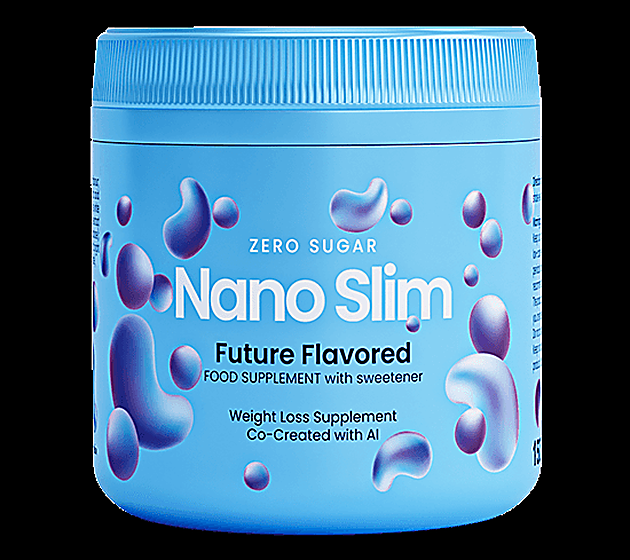
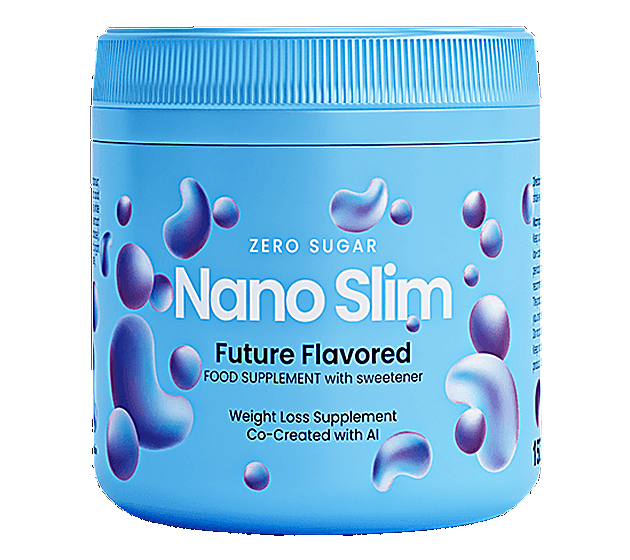
Фото: белый фон вместо чёрного — 763 кадра заливкой, 223 перерисовкой с автопроверкой текста

diff --git a/index.html b/index.html
@@ -52,7 +52,7 @@
 <div class="wrap">
   <header><img src="favicon.png" alt=""><h1>Κατάστημα του παρασκευαστή</h1></header>
   <div class="intro"><p>Απευθείας πώληση προϊόντων για την καθημερινή ευεξία.</p></div>
-  <div class="grid"><a class="card" href="/cp/abslim/"><div class="ph"><img src="img/lbhd-15182.png" alt="ABSlim" loading="lazy"></div><div class="name">ABSlim</div><div class="price">39 €</div><div class="btn">ΠΑΡΑΓΓΕΙΛΤΕ ΤΟ ΑΥΘΕΝΤΙΚΟ</div></a><a class="card" href="/dc/alpha-beast-31496/"><div class="ph"><img src="img/dccard-31496.png" alt="Alpha Beast" loading="lazy"></div><div class="name">Alpha Beast</div><div class="price">29 €</div><div class="btn">ΠΑΡΑΓΓΕΙΛΤΕ ΤΟ ΑΥΘΕΝΤΙΚΟ</div></a><a class="card" href="/rp/alvarix/"><div class="ph"><img src="img/rphd-1048.png" alt="Alvarix" loading="lazy"></div><div class="name">Alvarix</div><div class="price">39 €</div><div class="btn">ΠΑΡΑΓΓΕΙΛΤΕ ΤΟ ΑΥΘΕΝΤΙΚΟ</div></a><a class="card" href="/m1/artizynt/"><div class="ph"><img src="img/tlhd-18531.png" alt="ArtiZynt" loading="lazy"></div><div class="name">ArtiZynt</div><div class="price">39 €</div><div class="btn">ΠΑΡΑΓΓΕΙΛΤΕ ΤΟ ΑΥΘΕΝΤΙΚΟ</div></a><a class="card" href="/tl/artizynt/"><div class="ph"><img src="img/tlhd-18531.png" alt="ArtiZynt (Gel)" loading="lazy"></div><div class="name">ArtiZynt (Gel)</div><div class="price">39 €</div><div class="btn">ΠΑΡΑΓΓΕΙΛΤΕ ΤΟ ΑΥΘΕΝΤΙΚΟ</div></a><a class="card" href="/lr/artizynt/"><div class="ph"><img src="img/lrhd-5786.png" alt="ArtiZynt capsules" loading="lazy"></div><div class="name">ArtiZynt capsules</div><div class="price">29 €</div><div class="btn">ΠΑΡΑΓΓΕΙΛΤΕ ΤΟ ΑΥΘΕΝΤΙΚΟ</div></a><a class="card" href="/dc/artizynt/"><div class="ph"><img src="img/dccard-32275.jpeg" alt="ArtiZynt capsules lp" loading="lazy"></div><div class="name">ArtiZynt capsules lp</div><div class="price">29 €</div><div class="btn">ΠΑΡΑΓΓΕΙΛΤΕ ΤΟ ΑΥΘΕΝΤΙΚΟ</div></a><a class="card" href="/m1/artizynt-gel-6175/"><div class="ph"><img src="img/dc-28394.jpg" alt="ArtiZynt Gel" loading="lazy"></div><div class="name">ArtiZynt Gel</div><div class="price">39 €</div><div class="btn">ΠΑΡΑΓΓΕΙΛΤΕ ΤΟ ΑΥΘΕΝΤΙΚΟ</div></a><a class="card" href="/m1/artizynt-gel/"><div class="ph"><img src="img/dc-28394.jpg" alt="ArtiZynt Gel Full price" loading="lazy"></div><div class="name">ArtiZynt Gel Full price</div><div class="price">49 €</div><div class="btn">ΠΑΡΑΓΓΕΙΛΤΕ ΤΟ ΑΥΘΕΝΤΙΚΟ</div></a><a class="card" href="/m1/artizynt-gel-6176/"><div class="ph"><img src="img/dc-28394.jpg" alt="ArtiZynt Gel Low price" loading="lazy"></div><div class="name">ArtiZynt Gel Low price</div><div class="price">29 €</div><div class="btn">ΠΑΡΑΓΓΕΙΛΤΕ ΤΟ ΑΥΘΕΝΤΙΚΟ</div></a><a class="card" href="/m1/artizynt-6417/"><div class="ph"><img src="img/trafficlight-artizynt.jpg" alt="ArtiZynt Low price" loading="lazy"></div><div class="name">ArtiZynt Low price</div><div class="price">29 €</div><div class="btn">ΠΑΡΑΓΓΕΙΛΤΕ ΤΟ ΑΥΘΕΝΤΙΚΟ</div></a><a class="card" href="/cp/aurivit/"><div class="ph"><img src="img/m1-aurivit.png" alt="Aurivit" loading="lazy"></div><div class="name">Aurivit</div><div class="price">39 €</div><div class="btn">ΠΑΡΑΓΓΕΙΛΤΕ ΤΟ ΑΥΘΕΝΤΙΚΟ</div></a><a class="card" href="/lb/balancio/"><div class="ph"><img src="img/lbhd-16110.png" alt="Balancio" loading="lazy"></div><div class="name">Balancio</div><div class="price">29 €</div><div class="btn">ΠΑΡΑΓΓΕΙΛΤΕ ΤΟ ΑΥΘΕΝΤΙΚΟ</div></a><a class="card" href="/rp/beauty-age/"><div class="ph"><img src="img/rphd-799.png" alt="Beauty Age" loading="lazy"></div><div class="name">Beauty Age</div><div class="price">39 €</div><div class="btn">ΠΑΡΑΓΓΕΙΛΤΕ ΤΟ ΑΥΘΕΝΤΙΚΟ</div></a><a class="card" href="/cp/cardiform/"><div class="ph"><img src="img/everad-cardiform.png" alt="Cardiform" loading="lazy"></div><div class="name">Cardiform</div><div class="price">39 €</div><div class="btn">ΠΑΡΑΓΓΕΙΛΤΕ ΤΟ ΑΥΘΕΝΤΙΚΟ</div></a><a class="card" href="/dc/cardiotens-plus/"><div class="ph"><img src="img/cat-met-5366.jpg" alt="Cardiotens Plus" loading="lazy"></div><div class="name">Cardiotens Plus</div><div class="price">39 €</div><div class="btn">ΠΑΡΑΓΓΕΙΛΤΕ ΤΟ ΑΥΘΕΝΤΙΚΟ</div></a><a class="card" href="/ac/cardiotensive/"><div class="ph"><img src="img/achd-37067.png" alt="Cardiotensive" loading="lazy"></div><div class="name">Cardiotensive</div><div class="price">39 €</div><div class="btn">ΠΑΡΑΓΓΕΙΛΤΕ ΤΟ ΑΥΘΕΝΤΙΚΟ</div></a><a class="card" href="/rp/cleorix/"><div class="ph"><img src="img/rphd-1238.png" alt="Cleorix" loading="lazy"></div><div class="name">Cleorix</div><div class="price">39 €</div><div class="btn">ΠΑΡΑΓΓΕΙΛΤΕ ΤΟ ΑΥΘΕΝΤΙΚΟ</div></a><a class="card" href="/cp/clora-balance/"><div class="ph"><img src="img/cp-18363.jpg" alt="Clora Balance" loading="lazy"></div><div class="name">Clora Balance</div><div class="price">39 €</div><div class="btn">ΠΑΡΑΓΓΕΙΛΤΕ ΤΟ ΑΥΘΕΝΤΙΚΟ</div></a><a class="card" href="/lb/congelum/"><div class="ph"><img src="img/lbhd-14759.png" alt="Congelum" loading="lazy"></div><div class="name">Congelum</div><div class="price">39 €</div><div class="btn">ΠΑΡΑΓΓΕΙΛΤΕ ΤΟ ΑΥΘΕΝΤΙΚΟ</div></a><a class="card" href="/cp/cystiolla/"><div class="ph"><img src="img/achd-39166.png" alt="Cystiolla" loading="lazy"></div><div class="name">Cystiolla</div><div class="price">39 €</div><div class="btn">ΠΑΡΑΓΓΕΙΛΤΕ ΤΟ ΑΥΘΕΝΤΙΚΟ</div></a><a class="card" href="/cp/cystolax/"><div class="ph"><img src="img/cpagetti-cystolax.png" alt="Cystolax" loading="lazy"></div><div class="name">Cystolax</div><div class="price">39 €</div><div class="btn">ΠΑΡΑΓΓΕΙΛΤΕ ΤΟ ΑΥΘΕΝΤΙΚΟ</div></a><a class="card" href="/cp/delislim/"><div class="ph"><img src="img/cp-7795.jpg" alt="Delislim" loading="lazy"></div><div class="name">Delislim</div><div class="price">39 €</div><div class="btn">ΠΑΡΑΓΓΕΙΛΤΕ ΤΟ ΑΥΘΕΝΤΙΚΟ</div></a><a class="card" href="/cp/demyxil/"><div class="ph"><img src="img/everad-demyxil.png" alt="Demyxil" loading="lazy"></div><div class="name">Demyxil</div><div class="price">39 €</div><div class="btn">ΠΑΡΑΓΓΕΙΛΤΕ ΤΟ ΑΥΘΕΝΤΙΚΟ</div></a><a class="card" href="/lb/diabexol-pro/"><div class="ph"><img src="img/lbhd-19453.png" alt="Diabexol Pro" loading="lazy"></div><div class="name">Diabexol Pro</div><div class="price">29 €</div><div class="btn">ΠΑΡΑΓΓΕΙΛΤΕ ΤΟ ΑΥΘΕΝΤΙΚΟ</div></a><a class="card" href="/cp/diaflex-forte/"><div class="ph"><img src="img/cat-kma-10567.jpg" alt="DiaFlex Forte" loading="lazy"></div><div class="name">DiaFlex Forte</div><div class="price">39 €</div><div class="btn">ΠΑΡΑΓΓΕΙΛΤΕ ΤΟ ΑΥΘΕΝΤΙΚΟ</div></a><a class="card" href="/m1/diaflex-forte-6825/"><div class="ph"><img src="img/land-m1-6825.png" alt="DiaFlex Forte Neuropathy" loading="lazy"></div><div class="name">DiaFlex Forte Neuropathy</div><div class="price">39 €</div><div class="btn">ΠΑΡΑΓΓΕΙΛΤΕ ΤΟ ΑΥΘΕΝΤΙΚΟ</div></a><a class="card" href="/cp/diaform/"><div class="ph"><img src="img/ev-cab-diaform.png" alt="Diaform" loading="lazy"></div><div class="name">Diaform</div><div class="price">39 €</div><div class="btn">ΠΑΡΑΓΓΕΙΛΤΕ ΤΟ ΑΥΘΕΝΤΙΚΟ</div></a><a class="card" href="/ev/diaform/"><div class="ph"><img src="img/hd-eve-900.png" alt="Diaform+" loading="lazy"></div><div class="name">Diaform+</div><div class="price">39 €</div><div class="btn">ΠΑΡΑΓΓΕΙΛΤΕ ΤΟ ΑΥΘΕΝΤΙΚΟ</div></a><a class="card" href="/mc/diaformrx/"><div class="ph"><img src="img/mchd-5376.png" alt="DiaformRX" loading="lazy"></div><div class="name">DiaformRX</div><div class="price">29 €</div><div class="btn">ΠΑΡΑΓΓΕΙΛΤΕ ΤΟ ΑΥΘΕΝΤΙΚΟ</div></a><a class="card" href="/lb/dietter/"><div class="ph"><img src="img/lbhd-17707.png" alt="Dietter" loading="lazy"></div><div class="name">Dietter</div><div class="price">29 €</div><div class="btn">ΠΑΡΑΓΓΕΙΛΤΕ ΤΟ ΑΥΘΕΝΤΙΚΟ</div></a><a class="card" href="/lb/easyloss/"><div class="ph"><img src="img/lbhd-11356.png" alt="Easyloss" loading="lazy"></div><div class="name">Easyloss</div><div class="price">39 €</div><div class="btn">ΠΑΡΑΓΓΕΙΛΤΕ ΤΟ ΑΥΘΕΝΤΙΚΟ</div></a><a class="card" href="/cp/ekzodermin/"><div class="ph"><img src="img/cpagetti-ekzodermin.png" alt="Ekzodermin" loading="lazy"></div><div class="name">Ekzodermin</div><div class="price">39 €</div><div class="btn">ΠΑΡΑΓΓΕΙΛΤΕ ΤΟ ΑΥΘΕΝΤΙΚΟ</div></a><a class="card" href="/cp/elesse-cream/"><div class="ph"><img src="img/meta-elesse-cream.png" alt="Elesse Cream" loading="lazy"></div><div class="name">Elesse Cream</div><div class="price">49 €</div><div class="btn">ΠΑΡΑΓΓΕΙΛΤΕ ΤΟ ΑΥΘΕΝΤΙΚΟ</div></a><a class="card" href="/cp/eudalie/"><div class="ph"><img src="img/leadbit-eudalie.png" alt="Eudalie" loading="lazy"></div><div class="name">Eudalie</div><div class="price">39 €</div><div class="btn">ΠΑΡΑΓΓΕΙΛΤΕ ΤΟ ΑΥΘΕΝΤΙΚΟ</div></a><a class="card" href="/cp/exurol/"><div class="ph"><img src="img/drcash-exurol.png" alt="EXUROL" loading="lazy"></div><div class="name">EXUROL</div><div class="price">39 €</div><div class="btn">ΠΑΡΑΓΓΕΙΛΤΕ ΤΟ ΑΥΘΕΝΤΙΚΟ</div></a><a class="card" href="/m1/femixal/"><div class="ph"><img src="img/ev-cab-femixal.png" alt="Femixal" loading="lazy"></div><div class="name">Femixal</div><div class="price">39 €</div><div class="btn">ΠΑΡΑΓΓΕΙΛΤΕ ΤΟ ΑΥΘΕΝΤΙΚΟ</div></a><a class="card" href="/kma/flexosamine/"><div class="ph"><img src="img/kmahd-8947.jpg" alt="Flexosamine" loading="lazy"></div><div class="name">Flexosamine</div><div class="price">29 €</div><div class="btn">ΠΑΡΑΓΓΕΙΛΤΕ ΤΟ ΑΥΘΕΝΤΙΚΟ</div></a><a class="card" href="/dc/flexosamine-gel/"><div class="ph"><img src="img/drcash-flexosamine-gel.png" alt="Flexosamine gel" loading="lazy"></div><div class="name">Flexosamine gel</div><div class="price">39 €</div><div class="btn">ΠΑΡΑΓΓΕΙΛΤΕ ΤΟ ΑΥΘΕΝΤΙΚΟ</div></a><a class="card" href="/m1/flexosamine-6174/"><div class="ph"><img src="img/fix-kma-flexosamine-89.jpg" alt="Flexosamine Low price" loading="lazy"></div><div class="name">Flexosamine Low price</div><div class="price">29 €</div><div class="btn">ΠΑΡΑΓΓΕΙΛΤΕ ΤΟ ΑΥΘΕΝΤΙΚΟ</div></a><a class="card" href="/ac/foot-trooper/"><div class="ph"><img src="img/achd-35397.png" alt="Foot Trooper" loading="lazy"></div><div class="name">Foot Trooper</div><div class="price">49 €</div><div class="btn">ΠΑΡΑΓΓΕΙΛΤΕ ΤΟ ΑΥΘΕΝΤΙΚΟ</div></a><a class="card" href="/ac/fortuflex/"><div class="ph"><img src="img/achd-38782.png" alt="Fortuflex" loading="lazy"></div><div class="name">Fortuflex</div><div class="price">39 €</div><div class="btn">ΠΑΡΑΓΓΕΙΛΤΕ ΤΟ ΑΥΘΕΝΤΙΚΟ</div></a><a class="card" href="/dc/fortuflex-cream/"><div class="ph"><img src="img/dccard-31005.png" alt="Fortuflex cream" loading="lazy"></div><div class="name">Fortuflex cream</div><div class="price">39 €</div><div class="btn">ΠΑΡΑΓΓΕΙΛΤΕ ΤΟ ΑΥΘΕΝΤΙΚΟ</div></a><a class="card" href="/tl/fortunella/"><div class="ph"><img src="img/tlhd-5118.png" alt="Fortunella" loading="lazy"></div><div class="name">Fortunella</div><div class="price">39 €</div><div class="btn">ΠΑΡΑΓΓΕΙΛΤΕ ΤΟ ΑΥΘΕΝΤΙΚΟ</div></a><a class="card" href="/ac/fungokiller/"><div class="ph"><img src="img/achd-38816.png" alt="Fungokiller" loading="lazy"></div><div class="name">Fungokiller</div><div class="price">39 €</div><div class="btn">ΠΑΡΑΓΓΕΙΛΤΕ ΤΟ ΑΥΘΕΝΤΙΚΟ</div></a><a class="card" href="/mc/gluconix/"><div class="ph"><img src="img/mchd-5455.png" alt="Gluconix" loading="lazy"></div><div class="name">Gluconix</div><div class="price">39 €</div><div class="btn">ΠΑΡΑΓΓΕΙΛΤΕ ΤΟ ΑΥΘΕΝΤΙΚΟ</div></a><a class="card" href="/dc/glucosol/"><div class="ph"><img src="img/dccard-32637.jpg" alt="Glucosol" loading="lazy"></div><div class="name">Glucosol</div><div class="price">29 €</div><div class="btn">ΠΑΡΑΓΓΕΙΛΤΕ ΤΟ ΑΥΘΕΝΤΙΚΟ</div></a><a class="card" href="/rp/guavital/"><div class="ph"><img src="img/hd-roc-791.png" alt="Guavital Caps" loading="lazy"></div><div class="name">Guavital Caps</div><div class="price">39 €</div><div class="btn">ΠΑΡΑΓΓΕΙΛΤΕ ΤΟ ΑΥΘΕΝΤΙΚΟ</div></a></div>
+  <div class="grid"><a class="card" href="/cp/abslim/"><div class="ph"><img src="img/lbhd-15182.png" alt="ABSlim" loading="lazy"></div><div class="name">ABSlim</div><div class="price">39 €</div><div class="btn">ΠΑΡΑΓΓΕΙΛΤΕ ΤΟ ΑΥΘΕΝΤΙΚΟ</div></a><a class="card" href="/dc/alpha-beast-31496/"><div class="ph"><img src="img/dccard-31496.png" alt="Alpha Beast" loading="lazy"></div><div class="name">Alpha Beast</div><div class="price">29 €</div><div class="btn">ΠΑΡΑΓΓΕΙΛΤΕ ΤΟ ΑΥΘΕΝΤΙΚΟ</div></a><a class="card" href="/rp/alvarix/"><div class="ph"><img src="img/rphd-1048.png" alt="Alvarix" loading="lazy"></div><div class="name">Alvarix</div><div class="price">39 €</div><div class="btn">ΠΑΡΑΓΓΕΙΛΤΕ ΤΟ ΑΥΘΕΝΤΙΚΟ</div></a><a class="card" href="/m1/artizynt/"><div class="ph"><img src="img/tlhd-18531.png" alt="ArtiZynt" loading="lazy"></div><div class="name">ArtiZynt</div><div class="price">39 €</div><div class="btn">ΠΑΡΑΓΓΕΙΛΤΕ ΤΟ ΑΥΘΕΝΤΙΚΟ</div></a><a class="card" href="/tl/artizynt/"><div class="ph"><img src="img/tlhd-18531.png" alt="ArtiZynt (Gel)" loading="lazy"></div><div class="name">ArtiZynt (Gel)</div><div class="price">39 €</div><div class="btn">ΠΑΡΑΓΓΕΙΛΤΕ ΤΟ ΑΥΘΕΝΤΙΚΟ</div></a><a class="card" href="/lr/artizynt/"><div class="ph"><img src="img/lrhd-5786.png" alt="ArtiZynt capsules" loading="lazy"></div><div class="name">ArtiZynt capsules</div><div class="price">29 €</div><div class="btn">ΠΑΡΑΓΓΕΙΛΤΕ ΤΟ ΑΥΘΕΝΤΙΚΟ</div></a><a class="card" href="/dc/artizynt/"><div class="ph"><img src="img/dccard-32275.jpeg" alt="ArtiZynt capsules lp" loading="lazy"></div><div class="name">ArtiZynt capsules lp</div><div class="price">29 €</div><div class="btn">ΠΑΡΑΓΓΕΙΛΤΕ ΤΟ ΑΥΘΕΝΤΙΚΟ</div></a><a class="card" href="/m1/artizynt-gel-6175/"><div class="ph"><img src="img/dc-28394.jpg" alt="ArtiZynt Gel" loading="lazy"></div><div class="name">ArtiZynt Gel</div><div class="price">39 €</div><div class="btn">ΠΑΡΑΓΓΕΙΛΤΕ ΤΟ ΑΥΘΕΝΤΙΚΟ</div></a><a class="card" href="/m1/artizynt-gel/"><div class="ph"><img src="img/dc-28394.jpg" alt="ArtiZynt Gel Full price" loading="lazy"></div><div class="name">ArtiZynt Gel Full price</div><div class="price">49 €</div><div class="btn">ΠΑΡΑΓΓΕΙΛΤΕ ΤΟ ΑΥΘΕΝΤΙΚΟ</div></a><a class="card" href="/m1/artizynt-gel-6176/"><div class="ph"><img src="img/dc-28394.jpg" alt="ArtiZynt Gel Low price" loading="lazy"></div><div class="name">ArtiZynt Gel Low price</div><div class="price">29 €</div><div class="btn">ΠΑΡΑΓΓΕΙΛΤΕ ΤΟ ΑΥΘΕΝΤΙΚΟ</div></a><a class="card" href="/m1/artizynt-6417/"><div class="ph"><img src="img/trafficlight-artizynt.jpg" alt="ArtiZynt Low price" loading="lazy"></div><div class="name">ArtiZynt Low price</div><div class="price">29 €</div><div class="btn">ΠΑΡΑΓΓΕΙΛΤΕ ΤΟ ΑΥΘΕΝΤΙΚΟ</div></a><a class="card" href="/cp/aurivit/"><div class="ph"><img src="img/m1-aurivit.png" alt="Aurivit" loading="lazy"></div><div class="name">Aurivit</div><div class="price">39 €</div><div class="btn">ΠΑΡΑΓΓΕΙΛΤΕ ΤΟ ΑΥΘΕΝΤΙΚΟ</div></a><a class="card" href="/lb/balancio/"><div class="ph"><img src="img/lbhd-16110.png" alt="Balancio" loading="lazy"></div><div class="name">Balancio</div><div class="price">29 €</div><div class="btn">ΠΑΡΑΓΓΕΙΛΤΕ ΤΟ ΑΥΘΕΝΤΙΚΟ</div></a><a class="card" href="/rp/beauty-age/"><div class="ph"><img src="img/rphd-799.png" alt="Beauty Age" loading="lazy"></div><div class="name">Beauty Age</div><div class="price">39 €</div><div class="btn">ΠΑΡΑΓΓΕΙΛΤΕ ΤΟ ΑΥΘΕΝΤΙΚΟ</div></a><a class="card" href="/cp/cardiform/"><div class="ph"><img src="img/everad-cardiform.png" alt="Cardiform" loading="lazy"></div><div class="name">Cardiform</div><div class="price">39 €</div><div class="btn">ΠΑΡΑΓΓΕΙΛΤΕ ΤΟ ΑΥΘΕΝΤΙΚΟ</div></a><a class="card" href="/dc/cardiotens-plus/"><div class="ph"><img src="img/cat-met-5366.jpg" alt="Cardiotens Plus" loading="lazy"></div><div class="name">Cardiotens Plus</div><div class="price">39 €</div><div class="btn">ΠΑΡΑΓΓΕΙΛΤΕ ΤΟ ΑΥΘΕΝΤΙΚΟ</div></a><a class="card" href="/ac/cardiotensive/"><div class="ph"><img src="img/achd-37067.png" alt="Cardiotensive" loading="lazy"></div><div class="name">Cardiotensive</div><div class="price">39 €</div><div class="btn">ΠΑΡΑΓΓΕΙΛΤΕ ΤΟ ΑΥΘΕΝΤΙΚΟ</div></a><a class="card" href="/rp/cleorix/"><div class="ph"><img src="img/rphd-1238.png" alt="Cleorix" loading="lazy"></div><div class="name">Cleorix</div><div class="price">39 €</div><div class="btn">ΠΑΡΑΓΓΕΙΛΤΕ ΤΟ ΑΥΘΕΝΤΙΚΟ</div></a><a class="card" href="/cp/clora-balance/"><div class="ph"><img src="img/cp-18363.jpg" alt="Clora Balance" loading="lazy"></div><div class="name">Clora Balance</div><div class="price">39 €</div><div class="btn">ΠΑΡΑΓΓΕΙΛΤΕ ΤΟ ΑΥΘΕΝΤΙΚΟ</div></a><a class="card" href="/lb/congelum/"><div class="ph"><img src="img/lbhd-14759.png" alt="Congelum" loading="lazy"></div><div class="name">Congelum</div><div class="price">39 €</div><div class="btn">ΠΑΡΑΓΓΕΙΛΤΕ ΤΟ ΑΥΘΕΝΤΙΚΟ</div></a><a class="card" href="/cp/cystiolla/"><div class="ph"><img src="img/drcash-cystiolla.png" alt="Cystiolla" loading="lazy"></div><div class="name">Cystiolla</div><div class="price">39 €</div><div class="btn">ΠΑΡΑΓΓΕΙΛΤΕ ΤΟ ΑΥΘΕΝΤΙΚΟ</div></a><a class="card" href="/cp/cystolax/"><div class="ph"><img src="img/cpagetti-cystolax.png" alt="Cystolax" loading="lazy"></div><div class="name">Cystolax</div><div class="price">39 €</div><div class="btn">ΠΑΡΑΓΓΕΙΛΤΕ ΤΟ ΑΥΘΕΝΤΙΚΟ</div></a><a class="card" href="/cp/delislim/"><div class="ph"><img src="img/cp-7795.jpg" alt="Delislim" loading="lazy"></div><div class="name">Delislim</div><div class="price">39 €</div><div class="btn">ΠΑΡΑΓΓΕΙΛΤΕ ΤΟ ΑΥΘΕΝΤΙΚΟ</div></a><a class="card" href="/cp/demyxil/"><div class="ph"><img src="img/everad-demyxil.png" alt="Demyxil" loading="lazy"></div><div class="name">Demyxil</div><div class="price">39 €</div><div class="btn">ΠΑΡΑΓΓΕΙΛΤΕ ΤΟ ΑΥΘΕΝΤΙΚΟ</div></a><a class="card" href="/lb/diabexol-pro/"><div class="ph"><img src="img/lbhd-19453.png" alt="Diabexol Pro" loading="lazy"></div><div class="name">Diabexol Pro</div><div class="price">29 €</div><div class="btn">ΠΑΡΑΓΓΕΙΛΤΕ ΤΟ ΑΥΘΕΝΤΙΚΟ</div></a><a class="card" href="/cp/diaflex-forte/"><div class="ph"><img src="img/cat-kma-10567.jpg" alt="DiaFlex Forte" loading="lazy"></div><div class="name">DiaFlex Forte</div><div class="price">39 €</div><div class="btn">ΠΑΡΑΓΓΕΙΛΤΕ ΤΟ ΑΥΘΕΝΤΙΚΟ</div></a><a class="card" href="/m1/diaflex-forte-6825/"><div class="ph"><img src="img/land-m1-6825.png" alt="DiaFlex Forte Neuropathy" loading="lazy"></div><div class="name">DiaFlex Forte Neuropathy</div><div class="price">39 €</div><div class="btn">ΠΑΡΑΓΓΕΙΛΤΕ ΤΟ ΑΥΘΕΝΤΙΚΟ</div></a><a class="card" href="/cp/diaform/"><div class="ph"><img src="img/ev-cab-diaform.png" alt="Diaform" loading="lazy"></div><div class="name">Diaform</div><div class="price">39 €</div><div class="btn">ΠΑΡΑΓΓΕΙΛΤΕ ΤΟ ΑΥΘΕΝΤΙΚΟ</div></a><a class="card" href="/ev/diaform/"><div class="ph"><img src="img/hd-eve-900.png" alt="Diaform+" loading="lazy"></div><div class="name">Diaform+</div><div class="price">39 €</div><div class="btn">ΠΑΡΑΓΓΕΙΛΤΕ ΤΟ ΑΥΘΕΝΤΙΚΟ</div></a><a class="card" href="/mc/diaformrx/"><div class="ph"><img src="img/mchd-5376.png" alt="DiaformRX" loading="lazy"></div><div class="name">DiaformRX</div><div class="price">29 €</div><div class="btn">ΠΑΡΑΓΓΕΙΛΤΕ ΤΟ ΑΥΘΕΝΤΙΚΟ</div></a><a class="card" href="/lb/dietter/"><div class="ph"><img src="img/lbhd-17707.png" alt="Dietter" loading="lazy"></div><div class="name">Dietter</div><div class="price">29 €</div><div class="btn">ΠΑΡΑΓΓΕΙΛΤΕ ΤΟ ΑΥΘΕΝΤΙΚΟ</div></a><a class="card" href="/lb/easyloss/"><div class="ph"><img src="img/lbhd-11356.png" alt="Easyloss" loading="lazy"></div><div class="name">Easyloss</div><div class="price">39 €</div><div class="btn">ΠΑΡΑΓΓΕΙΛΤΕ ΤΟ ΑΥΘΕΝΤΙΚΟ</div></a><a class="card" href="/cp/ekzodermin/"><div class="ph"><img src="img/cpagetti-ekzodermin.png" alt="Ekzodermin" loading="lazy"></div><div class="name">Ekzodermin</div><div class="price">39 €</div><div class="btn">ΠΑΡΑΓΓΕΙΛΤΕ ΤΟ ΑΥΘΕΝΤΙΚΟ</div></a><a class="card" href="/cp/elesse-cream/"><div class="ph"><img src="img/meta-elesse-cream.png" alt="Elesse Cream" loading="lazy"></div><div class="name">Elesse Cream</div><div class="price">49 €</div><div class="btn">ΠΑΡΑΓΓΕΙΛΤΕ ΤΟ ΑΥΘΕΝΤΙΚΟ</div></a><a class="card" href="/cp/eudalie/"><div class="ph"><img src="img/leadbit-eudalie.png" alt="Eudalie" loading="lazy"></div><div class="name">Eudalie</div><div class="price">39 €</div><div class="btn">ΠΑΡΑΓΓΕΙΛΤΕ ΤΟ ΑΥΘΕΝΤΙΚΟ</div></a><a class="card" href="/cp/exurol/"><div class="ph"><img src="img/drcash-exurol.png" alt="EXUROL" loading="lazy"></div><div class="name">EXUROL</div><div class="price">39 €</div><div class="btn">ΠΑΡΑΓΓΕΙΛΤΕ ΤΟ ΑΥΘΕΝΤΙΚΟ</div></a><a class="card" href="/m1/femixal/"><div class="ph"><img src="img/ev-cab-femixal.png" alt="Femixal" loading="lazy"></div><div class="name">Femixal</div><div class="price">39 €</div><div class="btn">ΠΑΡΑΓΓΕΙΛΤΕ ΤΟ ΑΥΘΕΝΤΙΚΟ</div></a><a class="card" href="/kma/flexosamine/"><div class="ph"><img src="img/kmahd-8947.jpg" alt="Flexosamine" loading="lazy"></div><div class="name">Flexosamine</div><div class="price">29 €</div><div class="btn">ΠΑΡΑΓΓΕΙΛΤΕ ΤΟ ΑΥΘΕΝΤΙΚΟ</div></a><a class="card" href="/dc/flexosamine-gel/"><div class="ph"><img src="img/drcash-flexosamine-gel.png" alt="Flexosamine gel" loading="lazy"></div><div class="name">Flexosamine gel</div><div class="price">39 €</div><div class="btn">ΠΑΡΑΓΓΕΙΛΤΕ ΤΟ ΑΥΘΕΝΤΙΚΟ</div></a><a class="card" href="/m1/flexosamine-6174/"><div class="ph"><img src="img/fix-kma-flexosamine-89.jpg" alt="Flexosamine Low price" loading="lazy"></div><div class="name">Flexosamine Low price</div><div class="price">29 €</div><div class="btn">ΠΑΡΑΓΓΕΙΛΤΕ ΤΟ ΑΥΘΕΝΤΙΚΟ</div></a><a class="card" href="/ac/foot-trooper/"><div class="ph"><img src="img/achd-35397.png" alt="Foot Trooper" loading="lazy"></div><div class="name">Foot Trooper</div><div class="price">49 €</div><div class="btn">ΠΑΡΑΓΓΕΙΛΤΕ ΤΟ ΑΥΘΕΝΤΙΚΟ</div></a><a class="card" href="/ac/fortuflex/"><div class="ph"><img src="img/achd-38782.png" alt="Fortuflex" loading="lazy"></div><div class="name">Fortuflex</div><div class="price">39 €</div><div class="btn">ΠΑΡΑΓΓΕΙΛΤΕ ΤΟ ΑΥΘΕΝΤΙΚΟ</div></a><a class="card" href="/dc/fortuflex-cream/"><div class="ph"><img src="img/dccard-31005.png" alt="Fortuflex cream" loading="lazy"></div><div class="name">Fortuflex cream</div><div class="price">39 €</div><div class="btn">ΠΑΡΑΓΓΕΙΛΤΕ ΤΟ ΑΥΘΕΝΤΙΚΟ</div></a><a class="card" href="/tl/fortunella/"><div class="ph"><img src="img/tlhd-5118.png" alt="Fortunella" loading="lazy"></div><div class="name">Fortunella</div><div class="price">39 €</div><div class="btn">ΠΑΡΑΓΓΕΙΛΤΕ ΤΟ ΑΥΘΕΝΤΙΚΟ</div></a><a class="card" href="/ac/fungokiller/"><div class="ph"><img src="img/achd-38816.png" alt="Fungokiller" loading="lazy"></div><div class="name">Fungokiller</div><div class="price">39 €</div><div class="btn">ΠΑΡΑΓΓΕΙΛΤΕ ΤΟ ΑΥΘΕΝΤΙΚΟ</div></a><a class="card" href="/mc/gluconix/"><div class="ph"><img src="img/mchd-5455.png" alt="Gluconix" loading="lazy"></div><div class="name">Gluconix</div><div class="price">39 €</div><div class="btn">ΠΑΡΑΓΓΕΙΛΤΕ ΤΟ ΑΥΘΕΝΤΙΚΟ</div></a><a class="card" href="/dc/glucosol/"><div class="ph"><img src="img/dccard-32637.jpg" alt="Glucosol" loading="lazy"></div><div class="name">Glucosol</div><div class="price">29 €</div><div class="btn">ΠΑΡΑΓΓΕΙΛΤΕ ΤΟ ΑΥΘΕΝΤΙΚΟ</div></a><a class="card" href="/rp/guavital/"><div class="ph"><img src="img/hd-roc-791.png" alt="Guavital Caps" loading="lazy"></div><div class="name">Guavital Caps</div><div class="price">39 €</div><div class="btn">ΠΑΡΑΓΓΕΙΛΤΕ ΤΟ ΑΥΘΕΝΤΙΚΟ</div></a></div>
   <footer><a href="privacy.html">Πολιτική Απορρήτου</a><a href="terms.html">Όροι και Προϋποθέσεις</a><a href="kontakt.html">Επικοινωνία</a><a href="about.html">Σχετικά με εμάς</a><span>fazalstrk@gmail.com</span><span>© 2026</span></footer>
 </div>
 </body>

diff --git a/lr/hairperfecta/index.html b/lr/hairperfecta/index.html
@@ -260,7 +260,7 @@ body.free .disc,body:not(.free) .nodisc{display:none}
       <div>
         <div class="product-card">
           <span class="disc-ribbon disc">-50%</span>
-          <img src="../../img/tlhd-8917.jpg" alt="HairPerfecta">
+          <img src="../../img/redraw-tlhd-8917.png" alt="HairPerfecta">
           <div><span class="ribbon">Αυθεντικό</span><div class="shotcap">Αυθεντική συσκευασία με σφραγίδα και αριθμό παρτίδας</div></div>
         </div>
       </div>

diff --git a/tl/hairperfecta/index.html b/tl/hairperfecta/index.html
@@ -260,7 +260,7 @@ body.free .disc,body:not(.free) .nodisc{display:none}
       <div>
         <div class="product-card">
           <span class="disc-ribbon disc">-50%</span>
-          <img src="../../img/tlhd-8917.jpg" alt="HairPerfecta">
+          <img src="../../img/redraw-tlhd-8917.png" alt="HairPerfecta">
           <div><span class="ribbon">Αυθεντικό</span><div class="shotcap">Αυθεντική συσκευασία με σφραγίδα και αριθμό παρτίδας</div></div>
         </div>
       </div>

diff --git a/lr/ketoexpert/index.html b/lr/ketoexpert/index.html
@@ -260,7 +260,7 @@ body.free .disc,body:not(.free) .nodisc{display:none}
       <div>
         <div class="product-card">
           <span class="disc-ribbon disc">-50%</span>
-          <img src="../../img/kmahd-6348.png" alt="KetoExpert">
+          <img src="../../img/redraw-kmahd-6348.png" alt="KetoExpert">
           <div><span class="ribbon">Αυθεντικό</span><div class="shotcap">Αυθεντική συσκευασία με σφραγίδα και αριθμό παρτίδας</div></div>
         </div>
       </div>

diff --git a/mc/uro-protect/index.html b/mc/uro-protect/index.html
@@ -260,7 +260,7 @@ body.free .disc,body:not(.free) .nodisc{display:none}
       <div>
         <div class="product-card">
           <span class="disc-ribbon disc">-50%</span>
-          <img src="../../img/mchd-4888.png" alt="Uro Protect">
+          <img src="../../img/redraw-mchd-4888.png" alt="Uro Protect">
           <div><span class="ribbon">Αυθεντικό</span><div class="shotcap">Αυθεντική συσκευασία με σφραγίδα και αριθμό παρτίδας</div></div>
         </div>
       </div>

diff --git a/lb/hondroine-13619/index.html b/lb/hondroine-13619/index.html
@@ -260,7 +260,7 @@ body.free .disc,body:not(.free) .nodisc{display:none}
       <div>
         <div class="product-card">
           <span class="disc-ribbon disc">-50%</span>
-          <img src="../../img/lbhd-13619.png" alt="Hondroine">
+          <img src="../../img/redraw-lbhd-13619.png" alt="Hondroine">
           <div><span class="ribbon">Αυθεντικό</span><div class="shotcap">Αυθεντική συσκευασία με σφραγίδα και αριθμό παρτίδας</div></div>
         </div>
       </div>

diff --git a/lb/hondroine/index.html b/lb/hondroine/index.html
@@ -260,7 +260,7 @@ body.free .disc,body:not(.free) .nodisc{display:none}
       <div>
         <div class="product-card">
           <span class="disc-ribbon disc">-50%</span>
-          <img src="../../img/lbhd-13644.png" alt="Hondroine">
+          <img src="../../img/redraw-lbhd-13644.png" alt="Hondroine">
           <div><span class="ribbon">Αυθεντικό</span><div class="shotcap">Αυθεντική συσκευασία με σφραγίδα και αριθμό παρτίδας</div></div>
         </div>
       </div>

diff --git a/cp/cystiolla/index.html b/cp/cystiolla/index.html
@@ -260,7 +260,7 @@ body.free .disc,body:not(.free) .nodisc{display:none}
       <div>
         <div class="product-card">
           <span class="disc-ribbon disc">-50%</span>
-          <img src="../../img/achd-39166.png" alt="Cystiolla">
+          <img src="../../img/drcash-cystiolla.png" alt="Cystiolla">
           <div><span class="ribbon">Αυθεντικό</span><div class="shotcap">Αυθεντική συσκευασία με σφραγίδα και αριθμό παρτίδας</div></div>
         </div>
       </div>

diff --git a/m1/cystiolla/index.html b/m1/cystiolla/index.html
@@ -260,7 +260,7 @@ body.free .disc,body:not(.free) .nodisc{display:none}
       <div>
         <div class="product-card">
           <span class="disc-ribbon disc">-50%</span>
-          <img src="../../img/achd-39166.png" alt="Cystiolla">
+          <img src="../../img/drcash-cystiolla.png" alt="Cystiolla">
           <div><span class="ribbon">Αυθεντικό</span><div class="shotcap">Αυθεντική συσκευασία με σφραγίδα και αριθμό παρτίδας</div></div>
         </div>
       </div>
